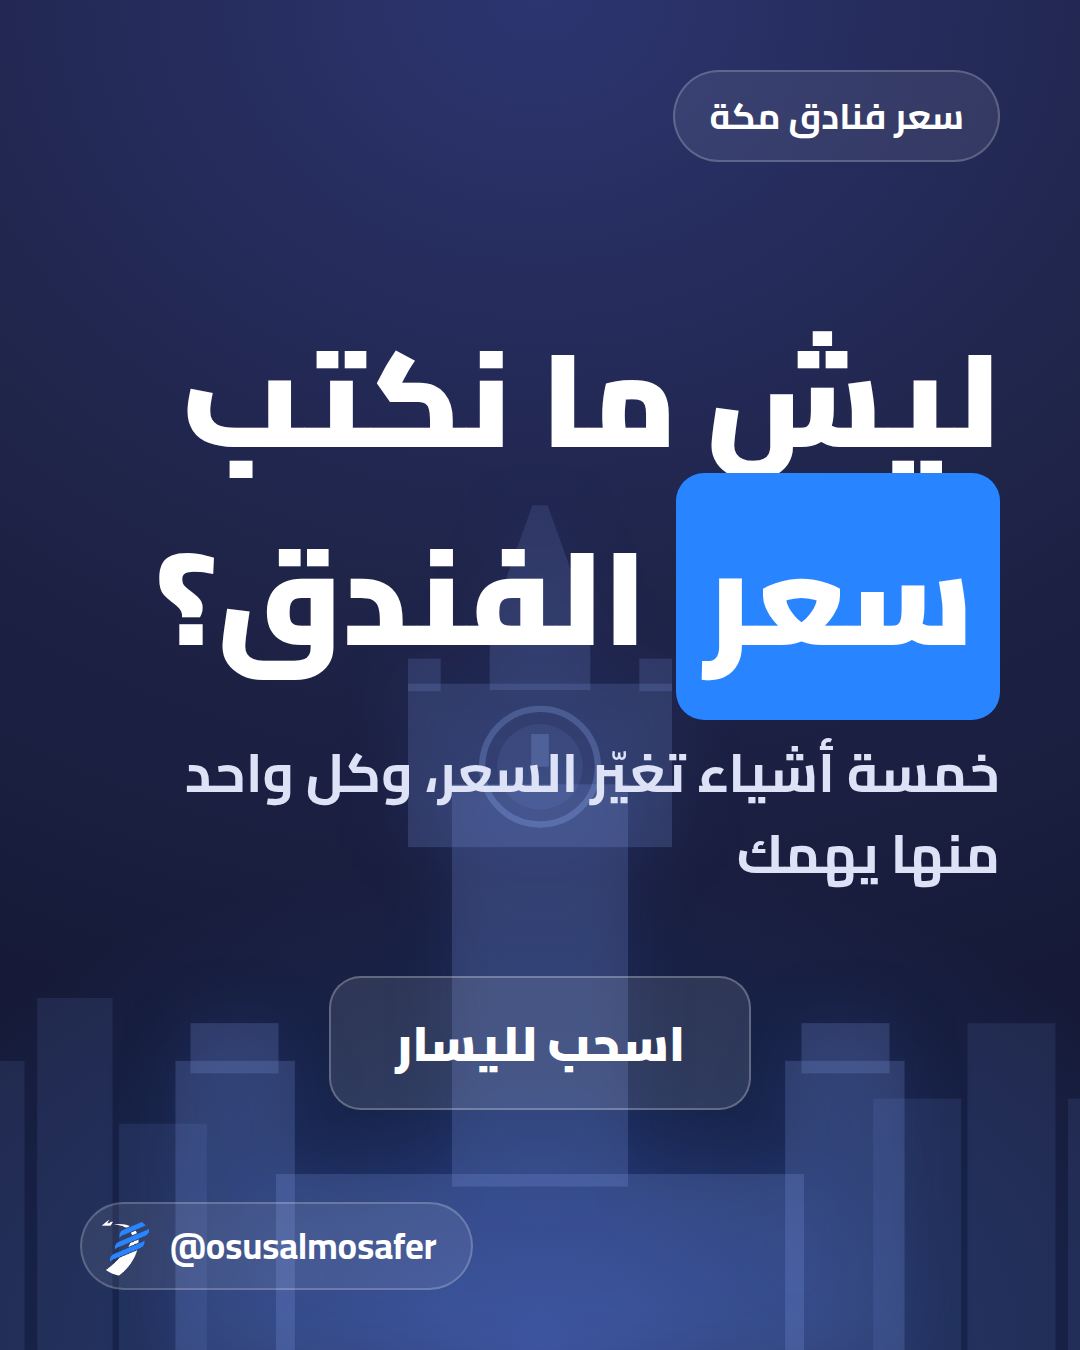
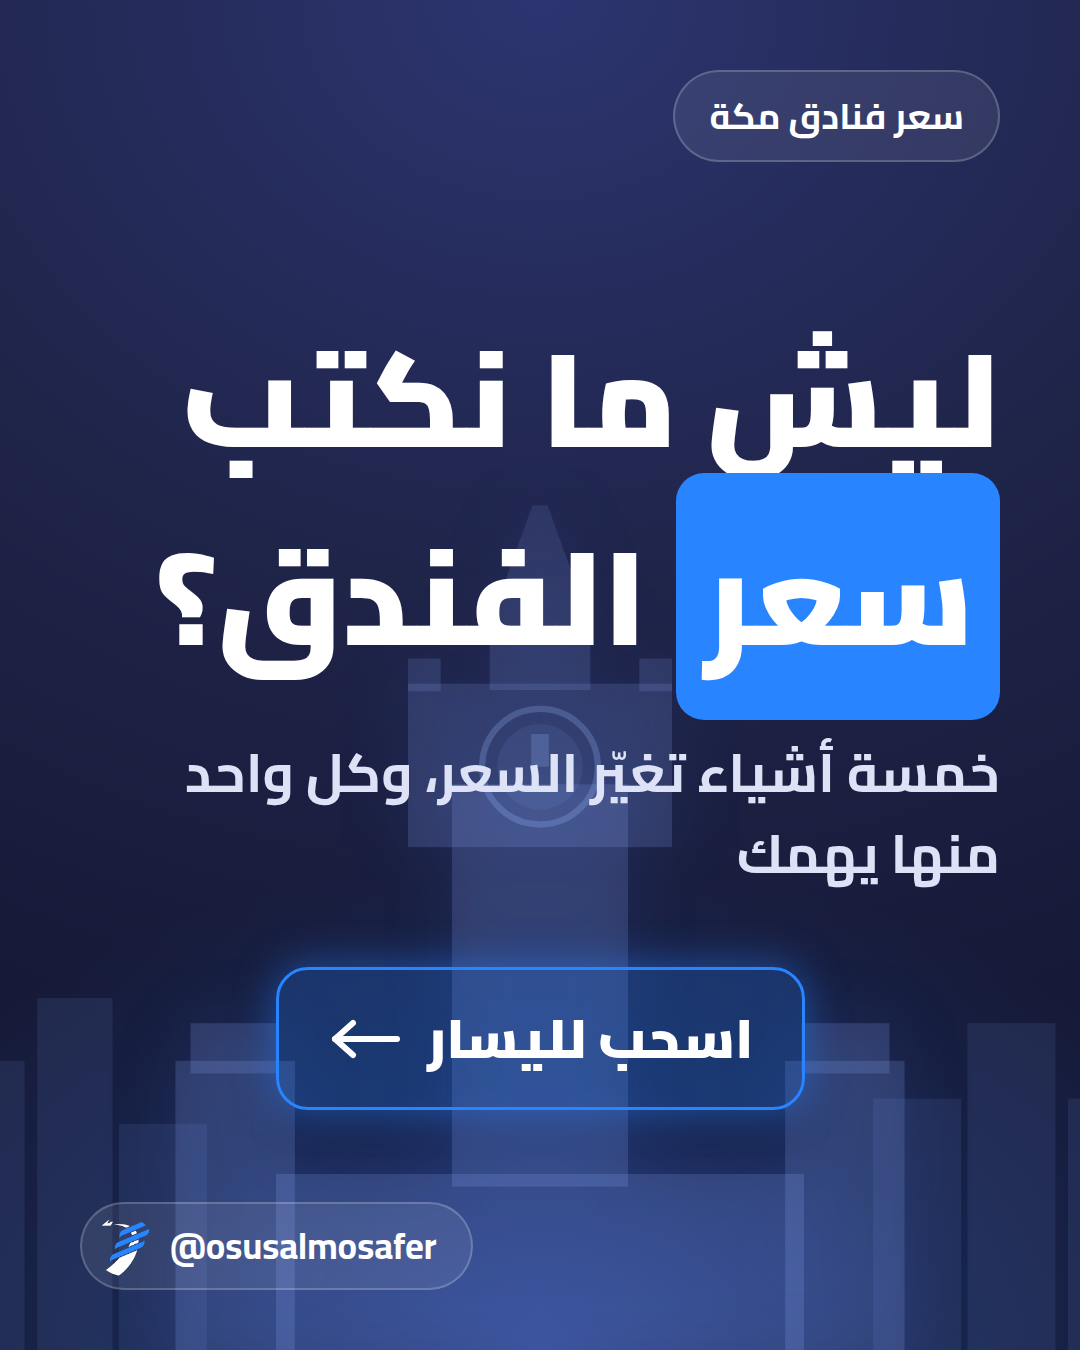
كاروسيل السعر: زر سحب بسهم، وفصل عدد الأشخاص عن نوع الغرفة
Claude-Session: https://claude.ai/code/session_014VtwQ8cvWScd6Ab9s2JkGB

Changed region(s): [[0.2444, 0.6844, 0.7639, 0.84]]

diff --git a/asas-agency-manager/brand-kit/carousel/build.js b/asas-agency-manager/brand-kit/carousel/build.js
@@ -83,11 +83,12 @@ mark{background:${theme.acc};color:#fff;border-radius:28px;padding:0 26px;box-de
 .pill span{background:${theme.acc};font-weight:900;font-size:64px;padding:20px 64px;border-radius:32px;box-shadow:0 18px 44px rgba(40,132,255,.45)}
 .chip{position:absolute;left:80px;bottom:60px;display:flex;align-items:center;gap:16px;background:rgba(255,255,255,.08);border:2px solid rgba(255,255,255,.2);border-radius:60px;padding:8px 34px 8px 12px;font-weight:700;font-size:36px;direction:ltr}
 .chip img{width:60px;height:60px;border-radius:50%}
+.pill span.sw{display:inline-flex;align-items:center;gap:26px;font-size:54px;padding:18px 48px;background:rgba(40,132,255,.22);border:3px solid ${theme.acc};box-shadow:0 0 40px rgba(40,132,255,.5)}
 .swipe{position:absolute;right:80px;bottom:76px;font-weight:700;font-size:34px;color:${theme.mut}}
 `;
 function slide(s, i) {
   let b = '';
-  if (s.type === 'cover') b = `<div class=body style="top:300px"><h1 class=big>${hl(s.title, s.hl)}</h1><div class=sub>${esc(s.sub)}</div></div><div class=pill style="bottom:240px"><span style="background:rgba(255,255,255,.1);border:2px solid rgba(255,255,255,.25);box-shadow:none;font-size:48px">اسحب لليسار</span></div>`;
+  if (s.type === 'cover') b = `<div class=body style="top:300px"><h1 class=big>${hl(s.title, s.hl)}</h1><div class=sub>${esc(s.sub)}</div></div><div class=pill style="bottom:240px"><span class=sw>اسحب لليسار<svg width="74" height="48" viewBox="0 0 74 48" fill="none" stroke="#fff" stroke-width="6" stroke-linecap="round" stroke-linejoin="round"><path d="M70 24H8"/><path d="M26 8L8 24l18 16"/></svg></span></div>`;
   else if (s.type === 'step') b = `<div class=body><div class=kick>الخطوة ${esc(s.n)}</div><h1>${hl(s.title, s.hl)}</h1><div class=card><small>${esc(s.card.label)}</small>${s.card.lines.map(l => `<b>${esc(l)}</b>`).join('')}</div><div class=foot>${esc(s.foot)}</div></div>`;
   else b = `<div class=body><h1 class=cta>${hl(s.title, s.hl)}</h1><div class=list>${s.list.map((l, k) => `<div><i>${k + 1}</i>${esc(l)}</div>`).join('')}</div></div><div class=pill style="bottom:150px"><span>${esc(s.pill)}</span></div>`;
   return `<html><head><meta charset=utf-8><style>${css}</style></head><body>
